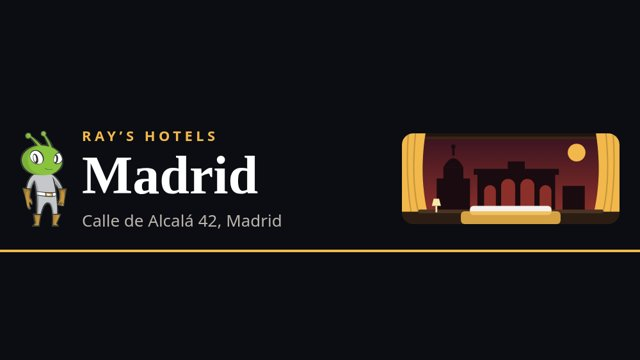
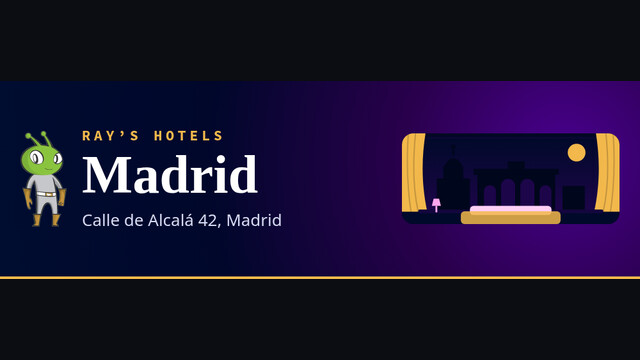
Give the Hotel Header the DevCon 2026 background and a fixed height
The header gets a navy gradient with a violet glow behind the room view, a
monospace label and lighter text. Its minimum height is the height of a
two-line city name, so Polignano a Mare and Rio de Janeiro no longer make
their tiles in the hotel grid scale smaller than the others.

diff --git a/payloads/hotel-header/index.css b/payloads/hotel-header/index.css
@@ -1,8 +1,8 @@
 .rays-header {
-	background: #0b0d12;
+	background: radial-gradient(circle at 88% 40%, #4a0090 0%, #29004c 28%, #00072b 62%, #000d30 100%);
 	border-bottom: 4px solid var(--rays-accent);
-	color: #f4f1ec;
-	font-family: system-ui, sans-serif;
+	color: #ffffff;
+	font-family: 'Source Sans Pro', system-ui, sans-serif;
 	padding: 28px 32px;
 }
 
@@ -13,6 +13,7 @@
 	justify-content: space-between;
 	margin: 0 auto;
 	max-width: 1040px;
+	min-height: 250px;
 }
 
 .rays-header__ray {
@@ -27,6 +28,7 @@
 
 .rays-header__brand {
 	color: var(--rays-accent);
+	font-family: 'Source Code Pro', ui-monospace, monospace;
 	font-size: 22px;
 	font-weight: 700;
 	letter-spacing: 0.25em;
@@ -43,7 +45,7 @@
 }
 
 .rays-header__tagline {
-	color: #b9b3ab;
+	color: #d6d9f2;
 	font-size: 26px;
 	margin: 0;
 }
